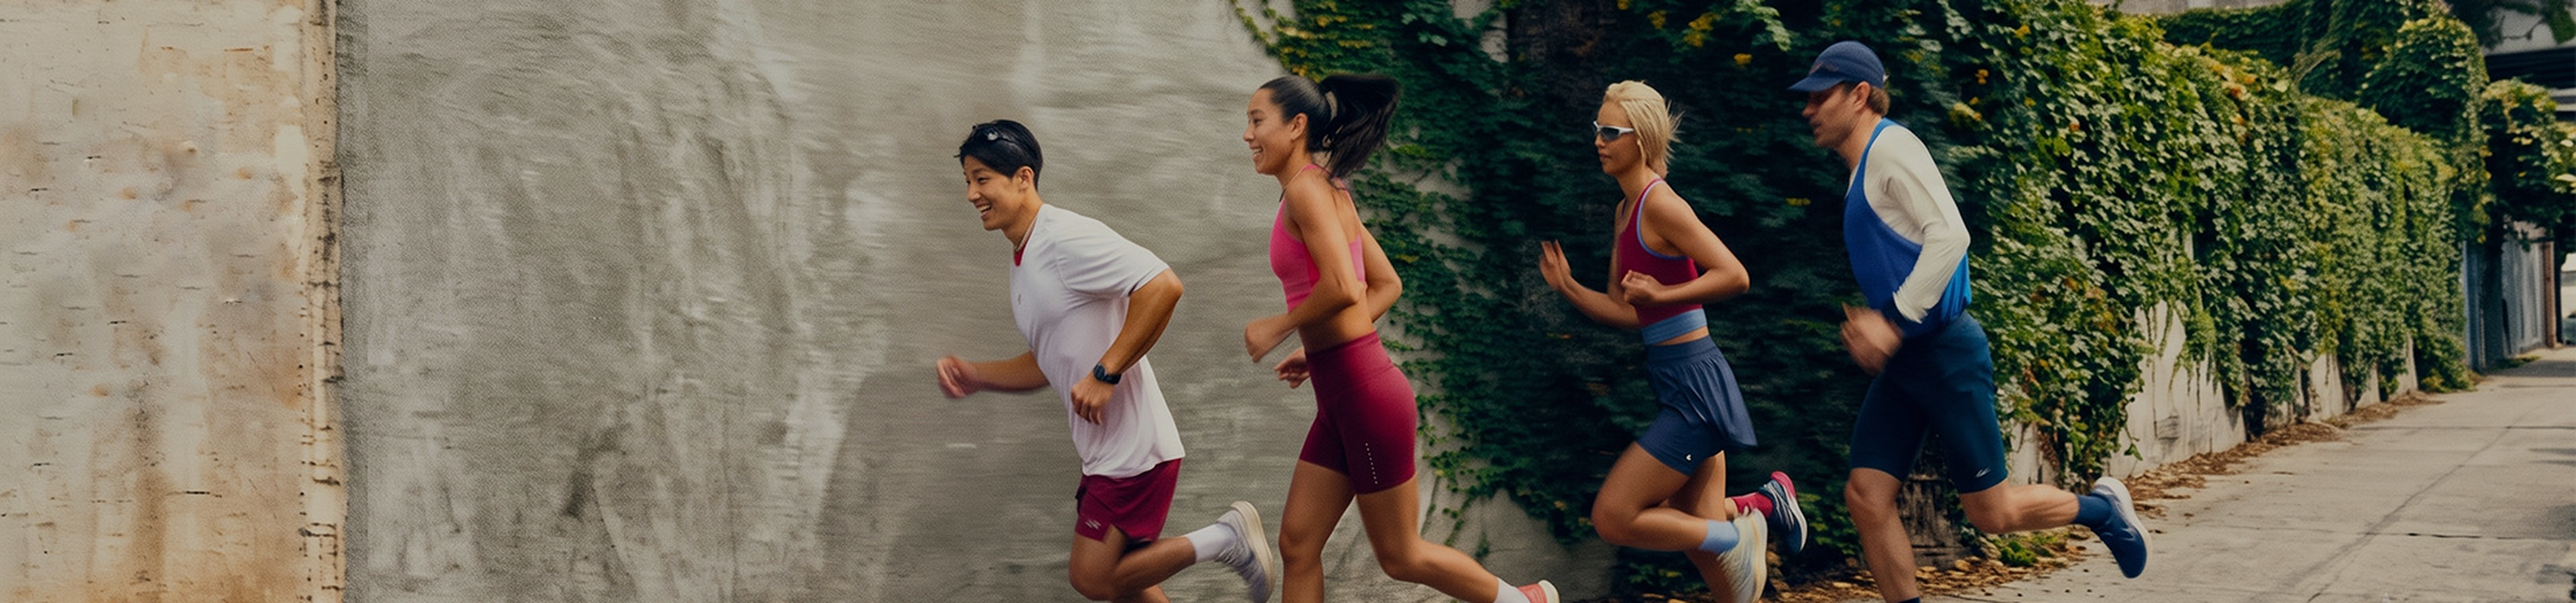
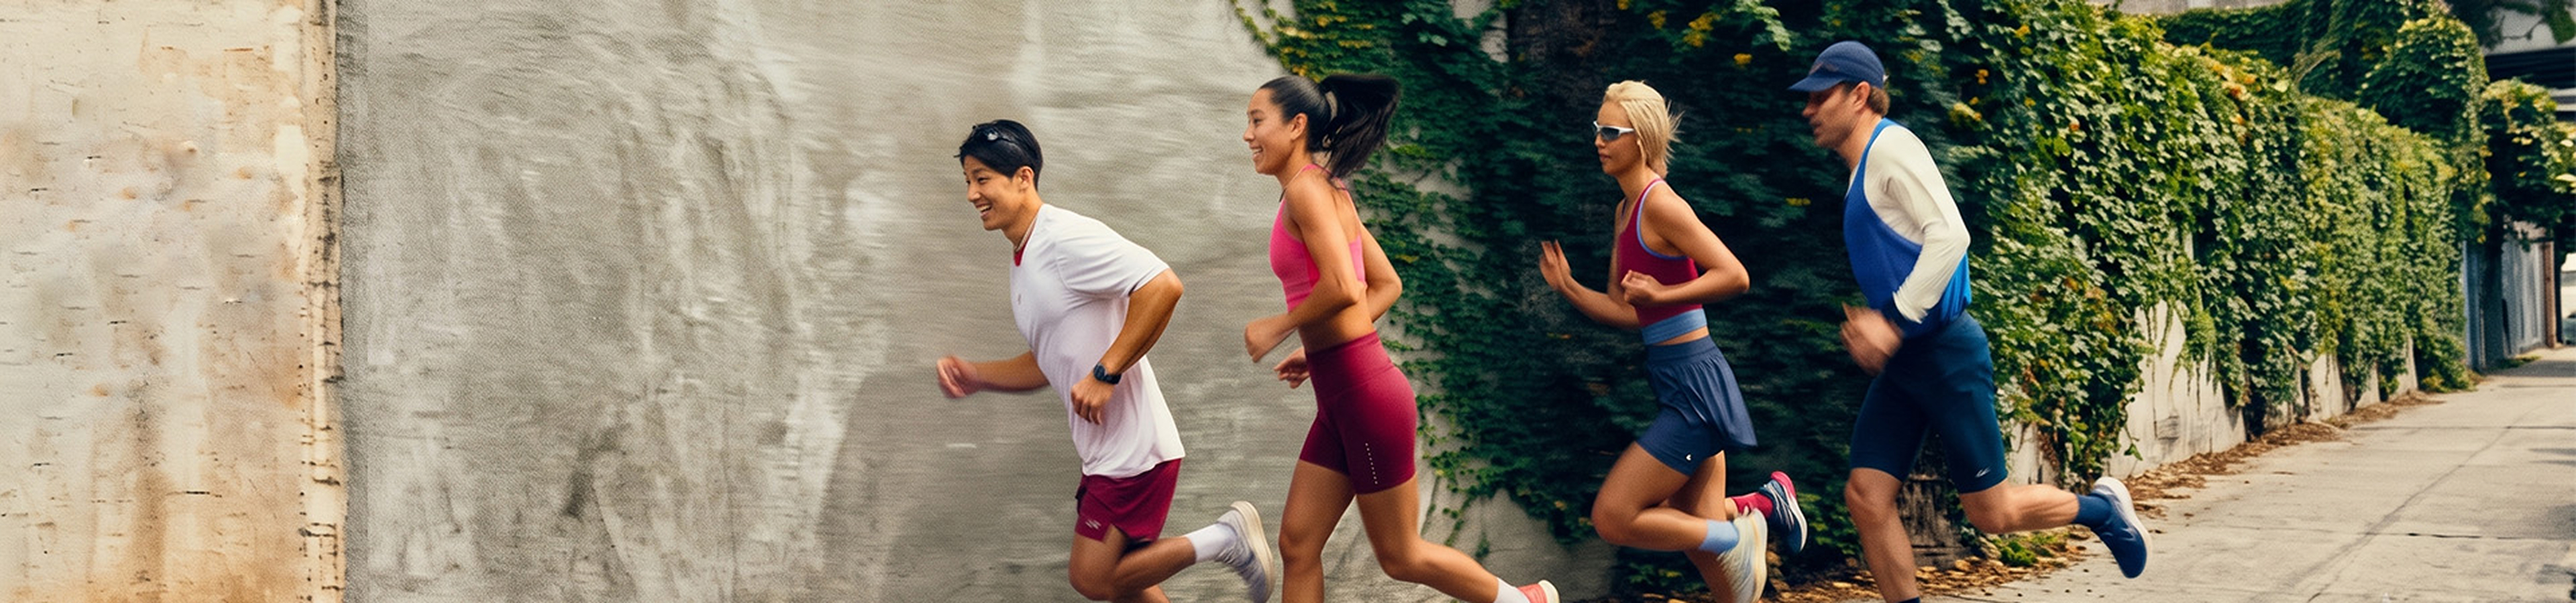
26/09/15

diff --git a/styles/index.css b/styles/index.css
@@ -1,11 +1,11 @@
-body {
-    min-width:1080px;
-}
+body {}
 /* -------------------------------header */
 header {
-    height:50px;
+    height:50px; width:100%;
     padding:0 100px;
     justify-content:space-between;
+    position:fixed; left:0; top:0; z-index:900;
+    background-color:var(--color-light);
 }
 /* 로고 */
 header h1 {width:113px;}
@@ -38,7 +38,12 @@ main h2 {
 /* -------------------------------------------- */
 /* 메인배너 */
 main {}
-main .hero_bnr {}
+main .hero_bnr {width:100%}
+main .hero_bnr a::after{
+    content:''; display:block; width:100%; height:100%;
+    background-color:var(--bg-blur-img);
+    position:absolute; left:0; top:0; z-index:100;
+}
 main .hero_bnr a{
     display:block; width:100%; position:relative;
 }
@@ -50,7 +55,7 @@ main .hero_bnr a .img{
 main .hero_bnr .bnr_title_contents {
     display:block;
     padding:20px 30px;
-    position:absolute; 
+    position:absolute; z-index:800;
     left:50%; top:50%;
     transform:translateX(-50%);
     text-align:center;
@@ -132,9 +137,15 @@ main .running_container .running_bnr {
     background-image:url(../images/bnr/running_bnr.jpg);
     background-position:center; background-size:cover;
     width:100%; height:450px;
-    position:relative;
+    position:relative; 
 }
-main .running_container .running_bnr  * {color:#fff;}
+main .running_container .running_bnr::after {
+    content:''; display:block; width:100%; height:100%;
+    background-color:var(--bg-blur-img);
+    position:absolute; left:0; top:0; z-index:100;
+}
+
+main .running_container .running_bnr  * {color:#fff; position:relative; z-index:800;}
 main .running_container .running_bnr h2 {}
 main .running_container .running_bnr .contents {margin:var(--d-spacing-md) 0 var(--d-spacing-xl);}
 main .running_container .running_bnr .more_btn {}
@@ -183,12 +194,17 @@ main .collection_container {
     padding:var(--d-spacing-xxl) 0;
     width:100%;
 }
-main .collection_container * {color:#fff;}
+main .collection_container * {color:#fff; position: relative; z-index:800;}
 main .collection_container a {
     background-position:center; background-size:cover;
     display:flex; flex-flow:column nowrap;
     justify-content: flex-end; 
     flex:1; height:900px; padding:50px;
+}
+main .collection_container a::after {
+    content:''; display:block; width:100%; height:100%;
+    background-color:var(--bg-blur-img);
+    position:absolute; left:0; top:0; z-index:100;
 }
 main .collection_container .yoga_coll {background-image:url(../images/bnr/yoga_bnr.jpg);}
 main .collection_container .abc_coll {background-image:url(../images/bnr/abc_bnr.jpg);}
@@ -239,11 +255,12 @@ main .daily_container .daily_contents .swiper .swiper-wrapper .swiper-slide a .i
 /* hover ---------------------------------------------------태그 변경 필요할지도 */
 main .daily_container .daily_contents .swiper .swiper-wrapper .swiper-slide a:hover .item_contents{display:flex;}
 /* 상품명+가격 */
+main .daily_container .daily_contents .swiper .swiper-wrapper .swiper-slide a .item_contents * {color:var(--color-light);}
 main .daily_container .daily_contents .swiper .swiper-wrapper .swiper-slide a .item_contents{
     padding:var(--d-spacing-sm) var(--d-spacing-xs);
-    display:flex; flex-flow:column nowrap; gap:var(--d-spacing-xs); 
+    display:none; flex-flow:column nowrap; gap:var(--d-spacing-xs); 
     position:absolute; bottom:0; left:0; 
-    background-color:var(--bg-blur-txt);
+    background-color:var(--bg-blur-txt); width:288px;
 }
 main .daily_container .daily_contents .swiper .swiper-wrapper .swiper-slide a .item_contents .item_name{
     white-space:nowrap;
@@ -376,14 +393,18 @@ footer .left_g .left_btm .information {
 footer .right_g {}
 footer .right_g h3{font-size:var(--d-font-contents-lg);}
 /* right_top */
-footer .right_g .right_top {}
-footer .right_g .right_top .sns {}
-footer .right_g .right_top .sns a {}
+footer .right_g .right_top {margin-bottom:var(--d-spacing-xl);}
+footer .right_g .right_top .sns {margin-top:var(--d-spacing-md);}
+footer .right_g .right_top .sns a {margin-left:var(--d-spacing-xs);}
 footer .right_g .right_top .sns a img {}
 /* right_btm */
 footer .right_g .right_btm{}
 footer .right_g .right_btm h3 {}
-footer .right_g .right_btm p{}
-footer .right_g .right_btm #email_frm {}
-footer .right_g .right_btm #email_frm #user_email{}
-footer .right_g .right_btm #email_frm #email_btn{}
+footer .right_g .right_btm p{margin-top:var(--d-spacing-md); line-height:var(--font-line-height);}
+footer .right_g .right_btm #email_frm {margin-top:var(--d-spacing-md); position:relative;}
+footer .right_g .right_btm #email_frm #user_email::placeholder{color:var(--color-mute);}
+footer .right_g .right_btm #email_frm #user_email{
+    border: 1px solid var(--color-mute); border-radius:5px;
+    padding:20px 15px; width:100%;
+}
+footer .right_g .right_btm #email_frm #email_btn{position:absolute; right:15px; top:50%; transform:translateY(-50%);}

diff --git a/README.md b/README.md
@@ -15,14 +15,13 @@
     * 스와이퍼의 관한 공부내용과 AI에게 궁금한 내용을 물어보아 swiper 속성 grid로 해결
     * 2행 3열 구조로 만들기 위해서는 슬라이드 내에 여러 상품을 두고 나열하는 방법과 속성을 이용한 방법이 있음을 알게 됨
 ### 해결해야할 것
-0. 데일리 컬렉션의 상품 호버 시 나오는 상품명+가격 그룹
-1. 탭메뉴 클릭 시 해당 상품레이어 나오도록하는 JS
+7. 사진 블러 없는 사진으로 넣고 사진 블러 css 디자인 -ok
+0. 데일리 컬렉션의 상품 호버 시 나오는 상품명+가격 그룹 -ok
 2. daily_container의 배너 크기 고정 필요
-3. footer 디자인
 4. 가로 무한 스크롤? -> 무슨 이유인지 모름
+1. 탭메뉴 클릭 시 해당 상품레이어 나오도록하는 JS
 5. 변수 적용 다시 확인할 것 -> 하지못한 디자인이 많음
 6. js 코드 정리해볼 것 -> 간소화 가능할 것 같음
-7. 사진 블러 없는 사진으로 넣고 사진 블러 css 디자인
 8. 메뉴 JS 작성 필요
 9. 상세 페이지
 10. 반응형 웹
